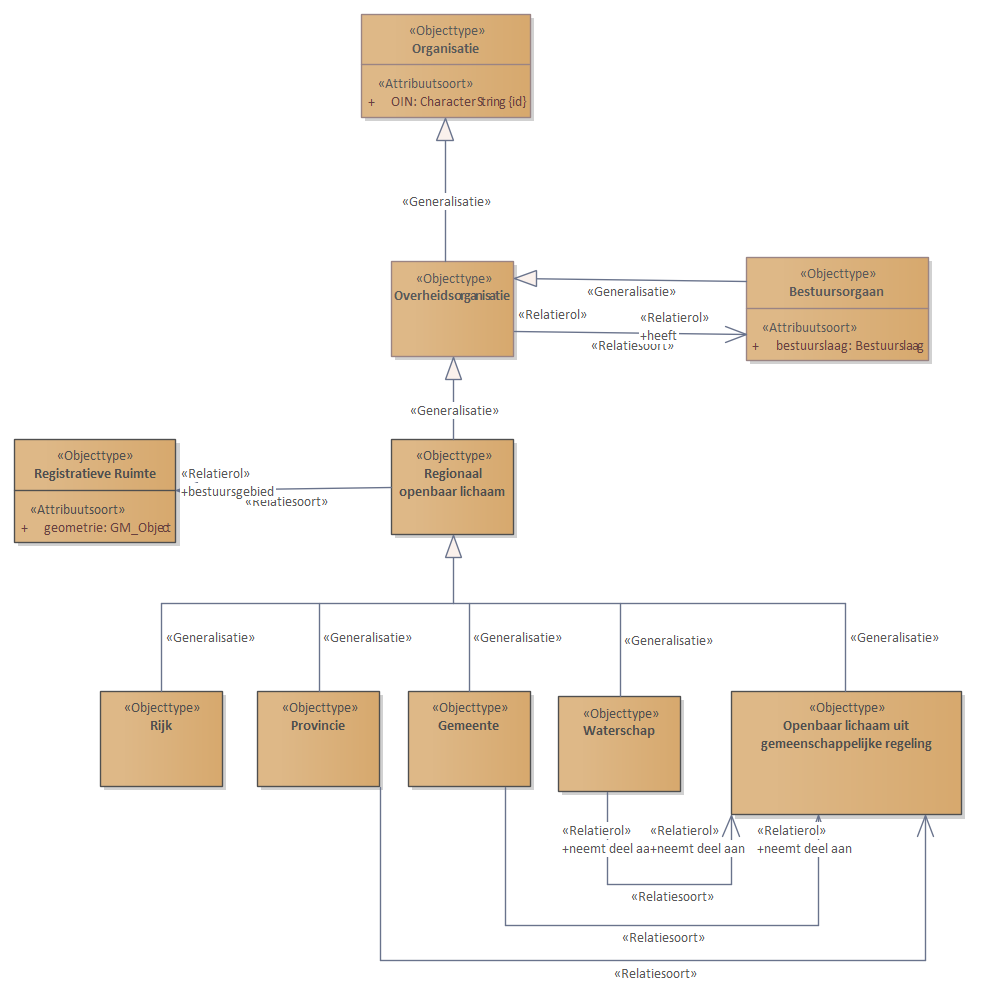
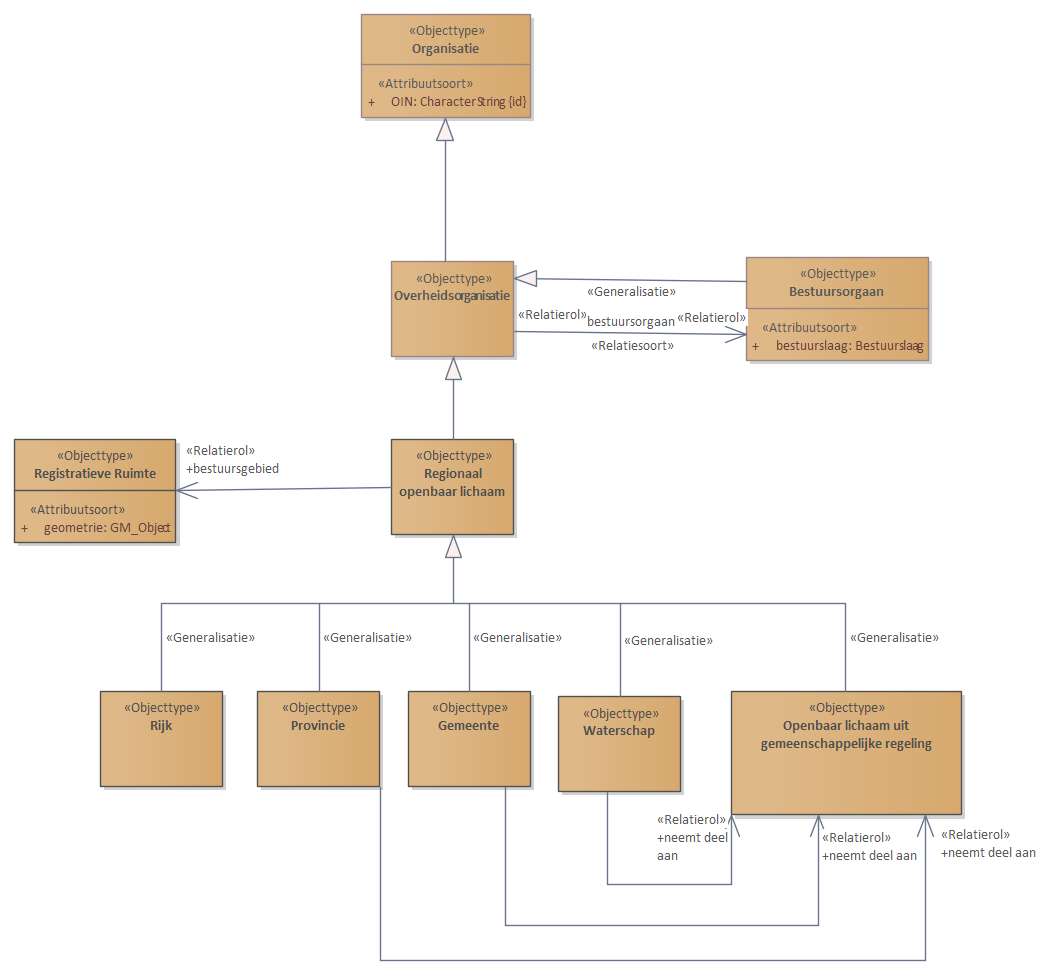
MIMCM-dso-cim-org-1.0-0-20231025-20260323-130611

diff --git a/data/dso-cim-org-cat.respec.html b/data/dso-cim-org-cat.respec.html
@@ -1,4 +1,4 @@
-<!DOCTYPE HTML><section id="cat" class="normative"><h2>Gegevensdefinitie</h2><!--MIMCM-dso-cim-org-1.0-0-20231025-20260320-114554 imvertor 4.5.0--><section id="EAID_54521278_9EB2_4c99_8C56_766F406EBC61"><h3>   CIM-ORG - overzicht</h3><div class="imageinfo overview"><figure class="uml-diagram"><img id="EAID_54521278_9EB2_4c99_8C56_766F406EBC61" src="data/Images/EAID_54521278_9EB2_4c99_8C56_766F406EBC61.png" usemap="#imagemap-EAID_54521278_9EB2_4c99_8C56_766F406EBC61" alt="Diagram: CIM-ORG - overzicht"><figcaption> ‒ Diagram: CIM-ORG</figcaption></figure><map name="imagemap-EAID_54521278_9EB2_4c99_8C56_766F406EBC61"><area shape="rect" alt="Ambtsgebied" coords="724,18,919,127" href="#global_class_CIMORG_Ambtsgebied"><area shape="rect" alt="Bestuursorgaan" coords="510,242,724,352" href="#global_class_CIMORG_Bestuursorgaan"><area shape="rect" alt="Overheidsorganisatie" coords="374,14,551,123" href="#global_class_CIMORG_Overheidsorganisatie"><area shape="rect" alt="Bevoegd gezag" coords="291,242,488,352" href="#global_class_CIMORG_Bevoegdgezag"><area shape="rect" alt="Behandeldienst" coords="41,242,178,352" href="#global_class_CIMORG_Behandeldienst"><area shape="rect" alt="Organisatie" coords="14,14,205,123" href="#global_class_CIMORG_Organisatie"></map><p>
+<!DOCTYPE HTML><section id="cat" class="normative"><h2>Gegevensdefinitie</h2><!--MIMCM-dso-cim-org-1.0-0-20231025-20260323-130611 imvertor 4.5.0--><section id="EAID_54521278_9EB2_4c99_8C56_766F406EBC61"><h3>   CIM-ORG - overzicht</h3><div class="imageinfo overview"><figure class="uml-diagram"><img id="EAID_54521278_9EB2_4c99_8C56_766F406EBC61" src="data/Images/EAID_54521278_9EB2_4c99_8C56_766F406EBC61.png" usemap="#imagemap-EAID_54521278_9EB2_4c99_8C56_766F406EBC61" alt="Diagram: CIM-ORG - overzicht"><figcaption> ‒ Diagram: CIM-ORG</figcaption></figure><map name="imagemap-EAID_54521278_9EB2_4c99_8C56_766F406EBC61"><area shape="rect" alt="Ambtsgebied" coords="751,18,947,127" href="#global_class_CIMORG_Ambtsgebied"><area shape="rect" alt="Bestuursorgaan" coords="538,242,751,352" href="#global_class_CIMORG_Bestuursorgaan"><area shape="rect" alt="Overheidsorganisatie" coords="401,14,579,123" href="#global_class_CIMORG_Overheidsorganisatie"><area shape="rect" alt="Bevoegd gezag" coords="319,242,516,352" href="#global_class_CIMORG_Bevoegdgezag"><area shape="rect" alt="Behandeldienst" coords="14,246,150,356" href="#global_class_CIMORG_Behandeldienst"><area shape="rect" alt="Organisatie" coords="41,14,233,123" href="#global_class_CIMORG_Organisatie"></map><p>
                         <p></p>
                      </p></div></section><section><h3>Objecttypen   </h3>
             <section id="global_class_CIMORG_RegistratieveRuimte"><h4>   Registratieve Ruimte</h4>
@@ -177,7 +177,7 @@ Een bestuursorgaan is volgens de definitie van artikel 1:1 lid 1 Awb een: "orgaa
                            Overheidsorganisatie
                            [ 1 ]
                            
-                              <a class="link" href="#detail_association_CIMORG_Overheidsorganisatie_heeft">heeft: heeft</a>
+                              <a class="link" href="#detail_association_CIMORG_Overheidsorganisatie_bestuursorgaan">bestuursorgaan</a>
                            
                            
                               <a class="link" href="#global_class_CIMORG_Bestuursorgaan">Bestuursorgaan</a>
@@ -374,8 +374,8 @@ Een bestuursorgaan is volgens de definitie van artikel 1:1 lid 1 Awb een: "orgaa
                   </section>
                </section>
                <section id="detail_class_CIMORG_Overheidsorganisatie"><h5>   Overheidsorganisatie</h5>
-                  <section id="detail_association_CIMORG_Overheidsorganisatie_heeft"><h6>Relatiesoort details  <a href="#global_class_CIMORG_Overheidsorganisatie">Overheidsorganisatie</a> heeft</h6>
-                     <table style="width: 100%;"><colgroup style="width: 30%;"></colgroup><colgroup style="width: 70%;"></colgroup><tbody><tr><th scope="row">Naam</th><td>heeft</td></tr><tr><th scope="row">Herkomst</th><td> </td></tr><tr><th scope="row">Definitie</th><td> </td></tr><tr><th scope="row">Herkomst definitie</th><td> </td></tr><tr><th scope="row">Datum opname</th><td> </td></tr><tr><th scope="row">Gerelateerd objecttype</th><td>
+                  <section id="detail_association_CIMORG_Overheidsorganisatie_bestuursorgaan"><h6>Relatiesoort details  <a href="#global_class_CIMORG_Overheidsorganisatie">Overheidsorganisatie</a> bestuursorgaan</h6>
+                     <table style="width: 100%;"><colgroup style="width: 30%;"></colgroup><colgroup style="width: 70%;"></colgroup><tbody><tr><th scope="row">Naam</th><td>bestuursorgaan</td></tr><tr><th scope="row">Herkomst</th><td> </td></tr><tr><th scope="row">Definitie</th><td> </td></tr><tr><th scope="row">Herkomst definitie</th><td> </td></tr><tr><th scope="row">Datum opname</th><td> </td></tr><tr><th scope="row">Gerelateerd objecttype</th><td>
                               <a class="link" href="#global_class_CIMORG_Bestuursorgaan">Bestuursorgaan</a>
                            </td></tr><tr><th scope="row">Kardinaliteit</th><td>1</td></tr><tr><th scope="row">Indicatie kardinaliteit bron</th><td>1</td></tr><tr><th scope="row">Indicatie authentiek</th><td>  </td></tr><tr><th scope="row">Mogelijk geen waarde</th><td>Nee</td></tr></tbody></table>
                      
